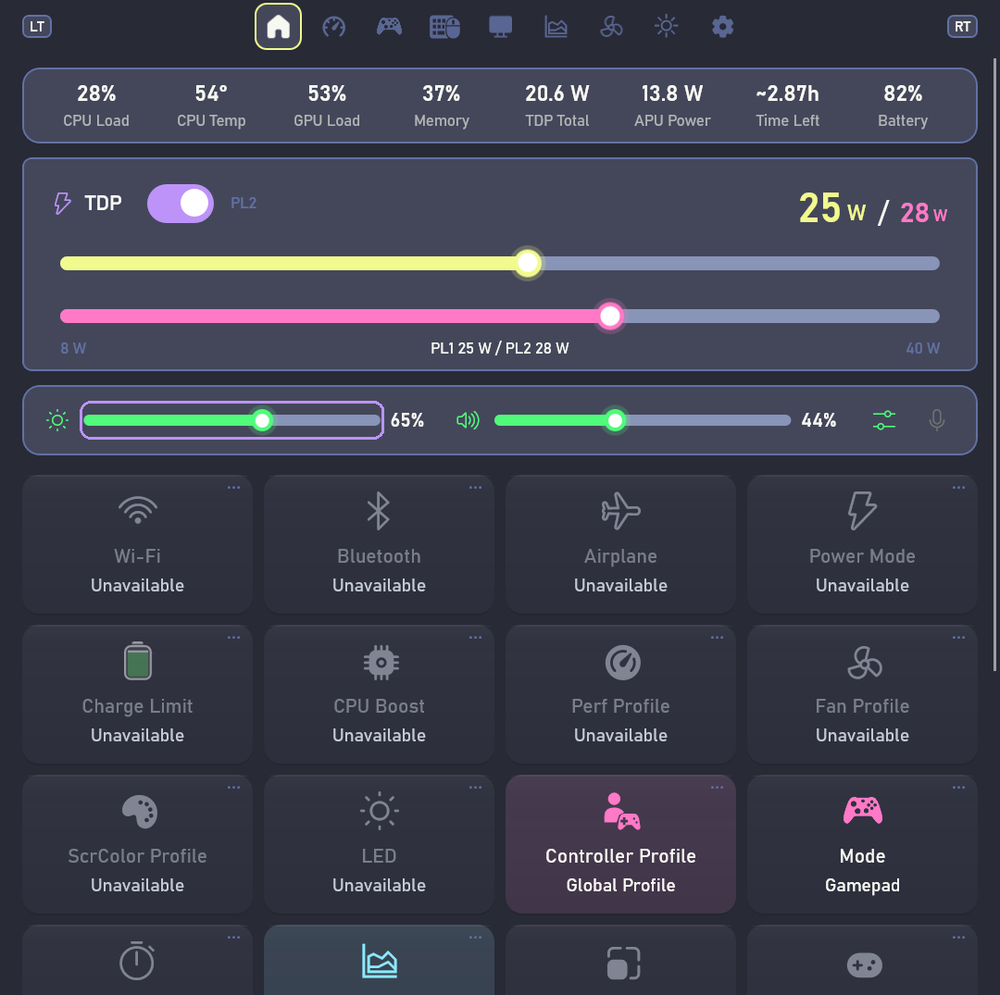
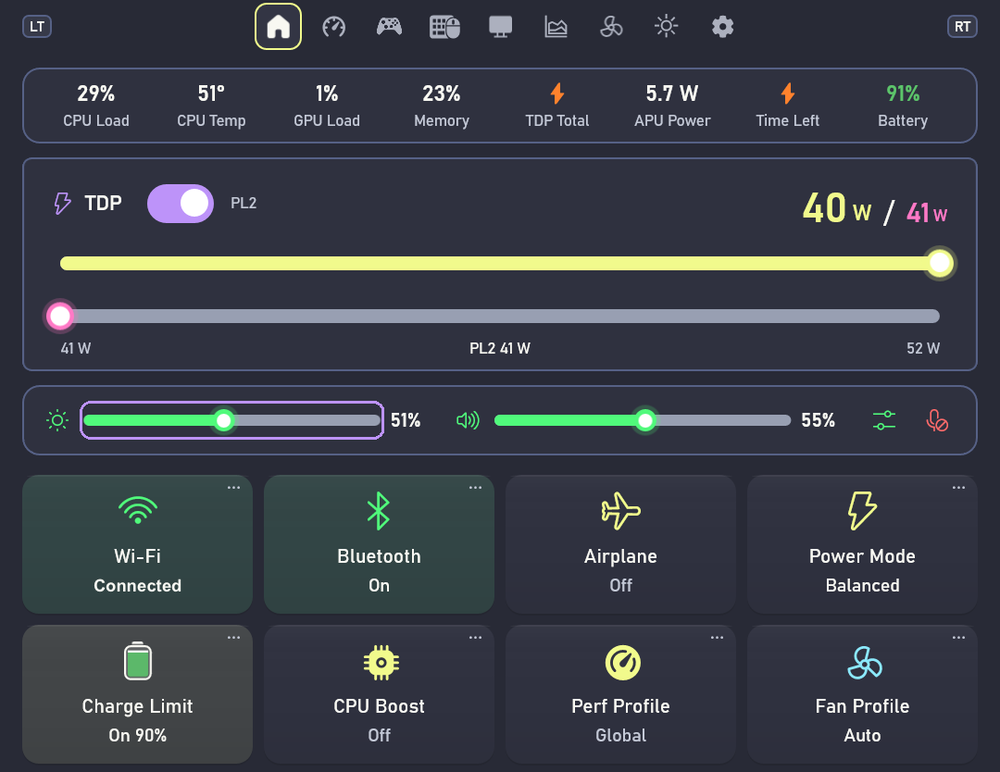
Show the connected Game Bar widget in the README

diff --git a/README.md b/README.md
@@ -20,7 +20,7 @@ ONEXTweaks runs inside **Xbox Game Bar** on Windows 11 x64. Open it with **Win +
 
 ## Take a tour
 
-The tour uses Dracula with Glass Effect off and shows example readings. To compare palettes, open the [theme gallery](#theme-gallery).
+The tour uses Dracula with Glass Effect off. To compare palettes, open the [theme gallery](#theme-gallery).
 
 ### 🏠 Home
 
@@ -36,7 +36,7 @@ The tour uses Dracula with Glass Effect off and shows example readings. To compa
 ### ⚡ Performance
 
 <p align="center">
-  <img src="docs/images/performance-tab.png" width="640" alt="Performance tab power settings with separate sliders for sustained and short-burst processor power">
+  <img src="docs/images/performance-tab.png" width="640" alt="Connected Performance tab showing the active profile, its PL1 and PL2 values, CPU controls, and frame-rate cap">
 </p>
 
 **The TDP card sets the processor's power limits in watts.** The two sliders let you set a steady limit for regular play and a higher limit for short bursts of work.
@@ -117,7 +117,7 @@ Use the sticks as a cursor and scroll wheel. Tune pointer speed and precision se
 ### 🖥 Screen Colors
 
 <p align="center">
-  <img src="docs/images/screen-colors.gif" width="640" alt="Screen Colors sliders changing brightness, saturation, and contrast alongside an example image">
+  <img src="docs/images/screen-colors.gif" width="640" alt="Screen Colors sliders changing brightness and saturation alongside the reference image">
 </p>
 
 *The animation illustrates how color adjustments can look. Actual output depends on your display and graphics driver.*
